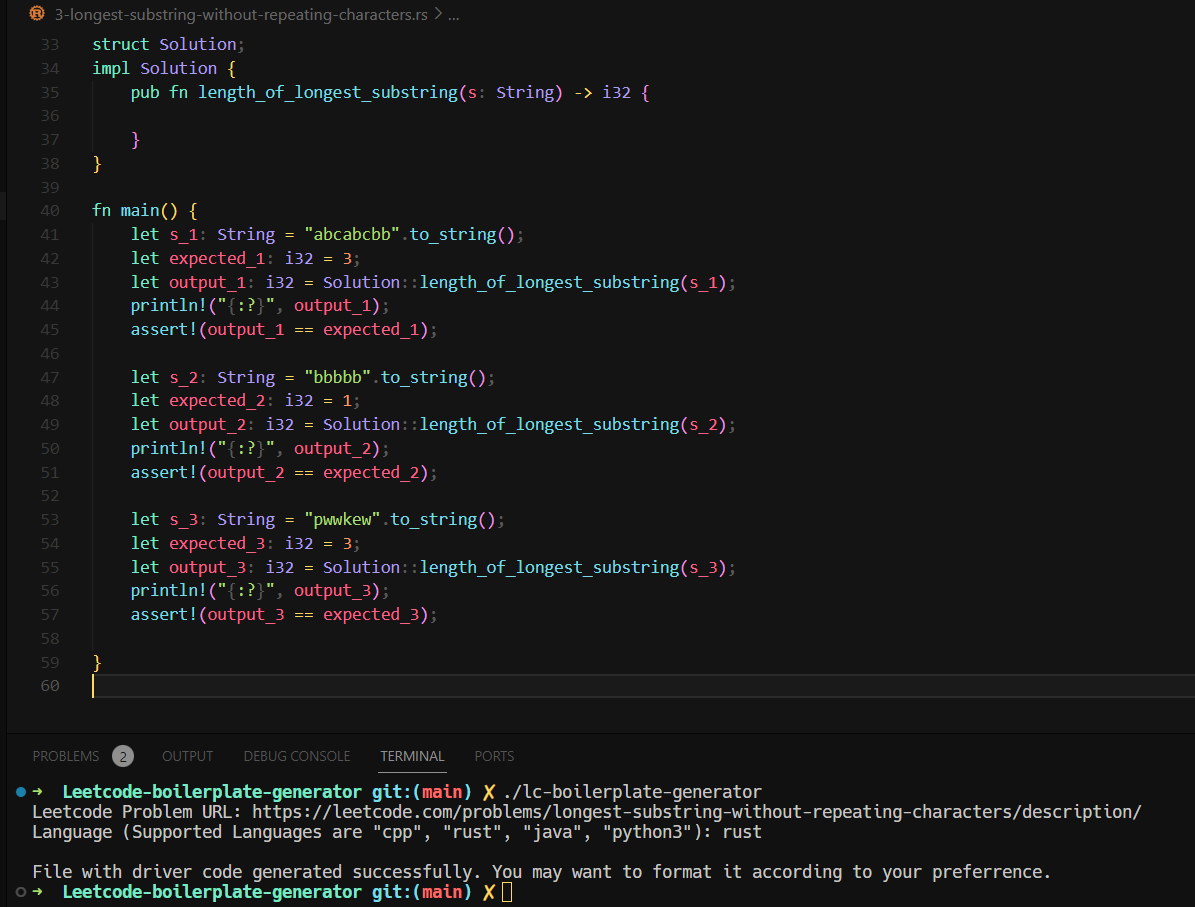
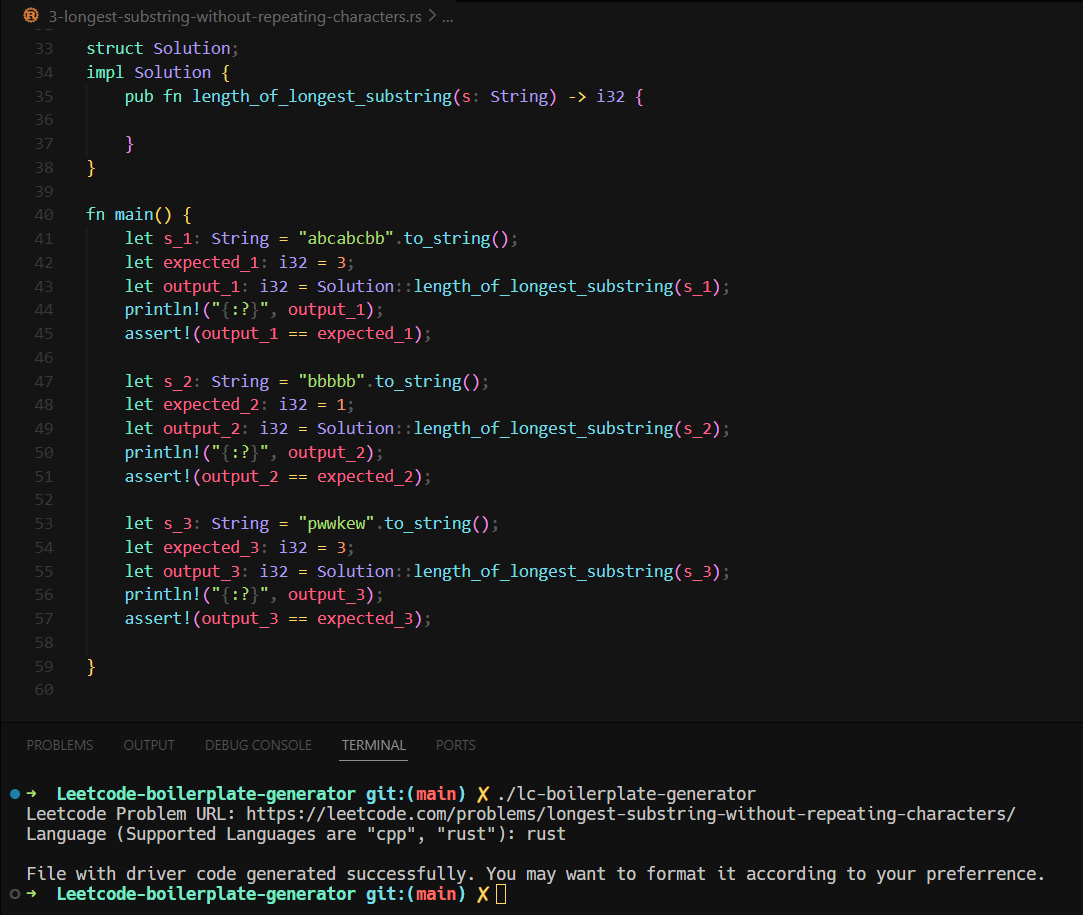
README update

diff --git a/src/utils.rs b/src/utils.rs
@@ -2,14 +2,12 @@ use std::{collections::HashMap, fmt};
 
 pub const LANG_CPP: &str = "cpp";
 pub const LANG_RUST: &str = "rust";
-pub const LANG_PYTHON: &str = "python3";
 
 const EXTNSN_CPP: &str = "cpp";
 const EXTNSN_RUST: &str = "rs";
-const EXTNSN_PYTHON: &str = "py";
 const EXTNSN_TXT: &str = "txt";
 
-pub const LANGUAGE_LIST: [&str; 3] = [LANG_CPP, LANG_RUST, LANG_PYTHON];
+pub const LANGUAGE_LIST: [&str; 2] = [LANG_CPP, LANG_RUST];
 
 pub const IN_INT: &str = "integer";
 pub const IN_STRING: &str = "string";
@@ -32,7 +30,6 @@ pub fn extension_lang_map(language: &String) -> &str {
     match language.to_ascii_lowercase().as_str() {
         LANG_CPP => EXTNSN_CPP,
         LANG_RUST => EXTNSN_RUST,
-        LANG_PYTHON => EXTNSN_PYTHON,
         _ => EXTNSN_TXT,
     }
 }
